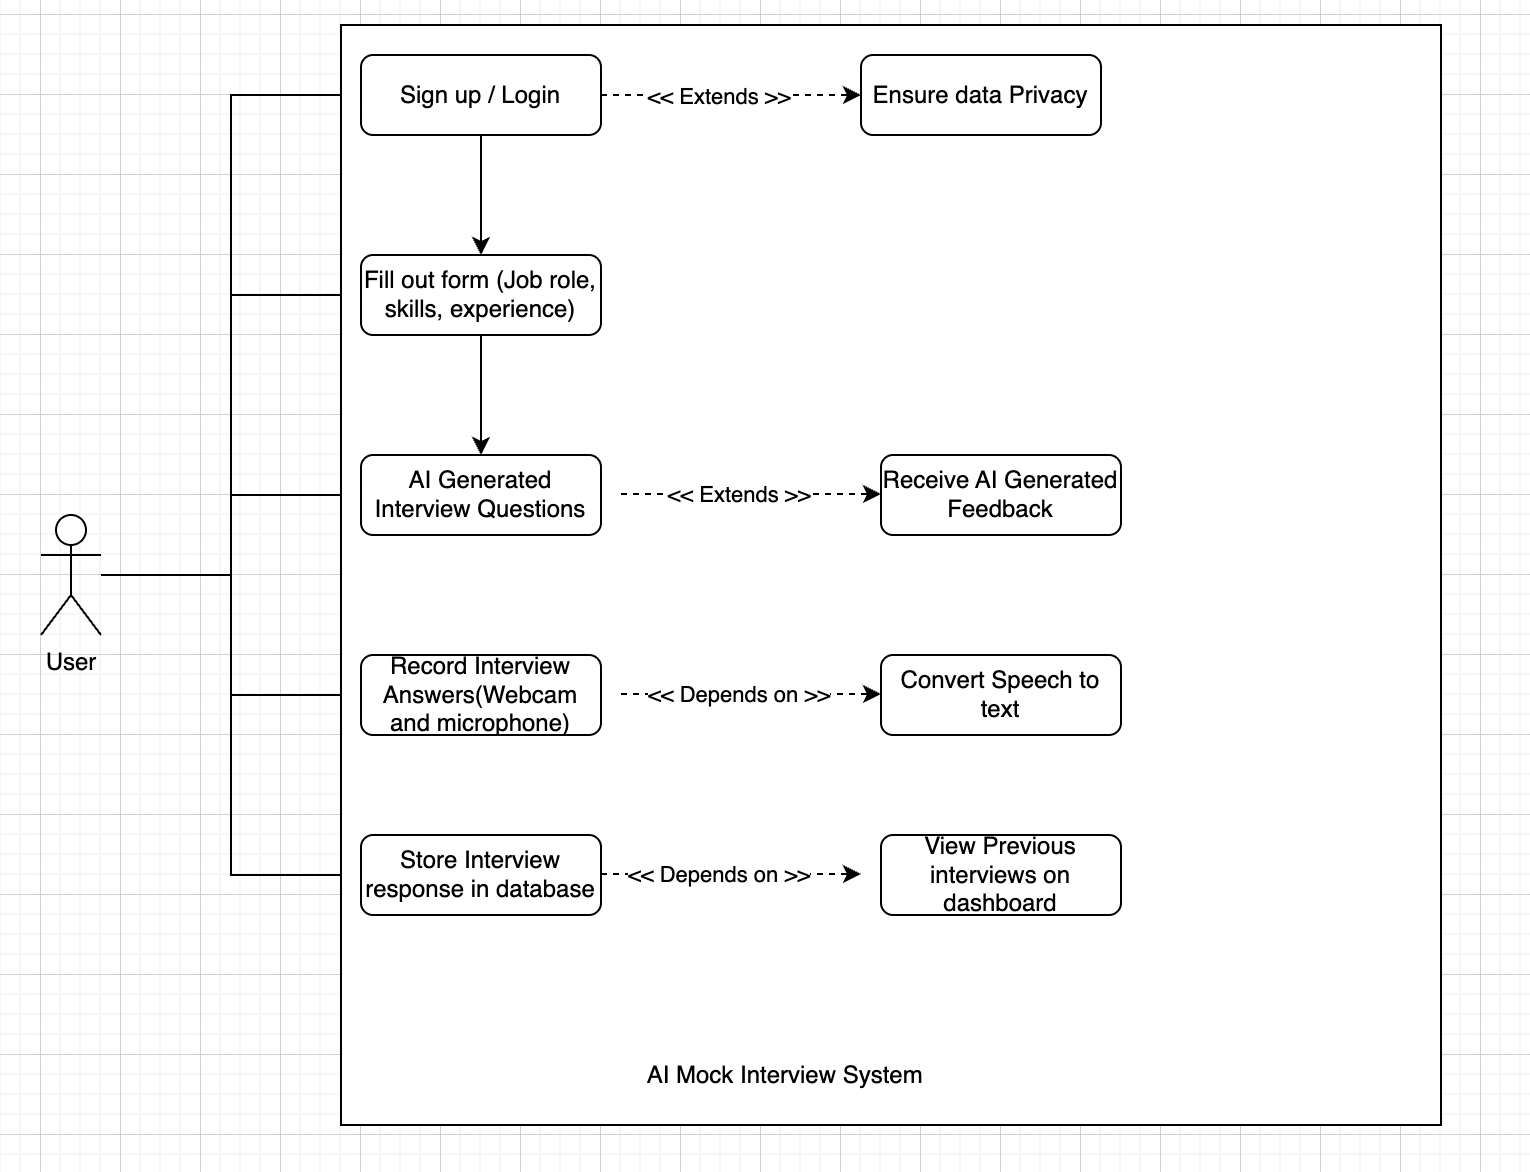
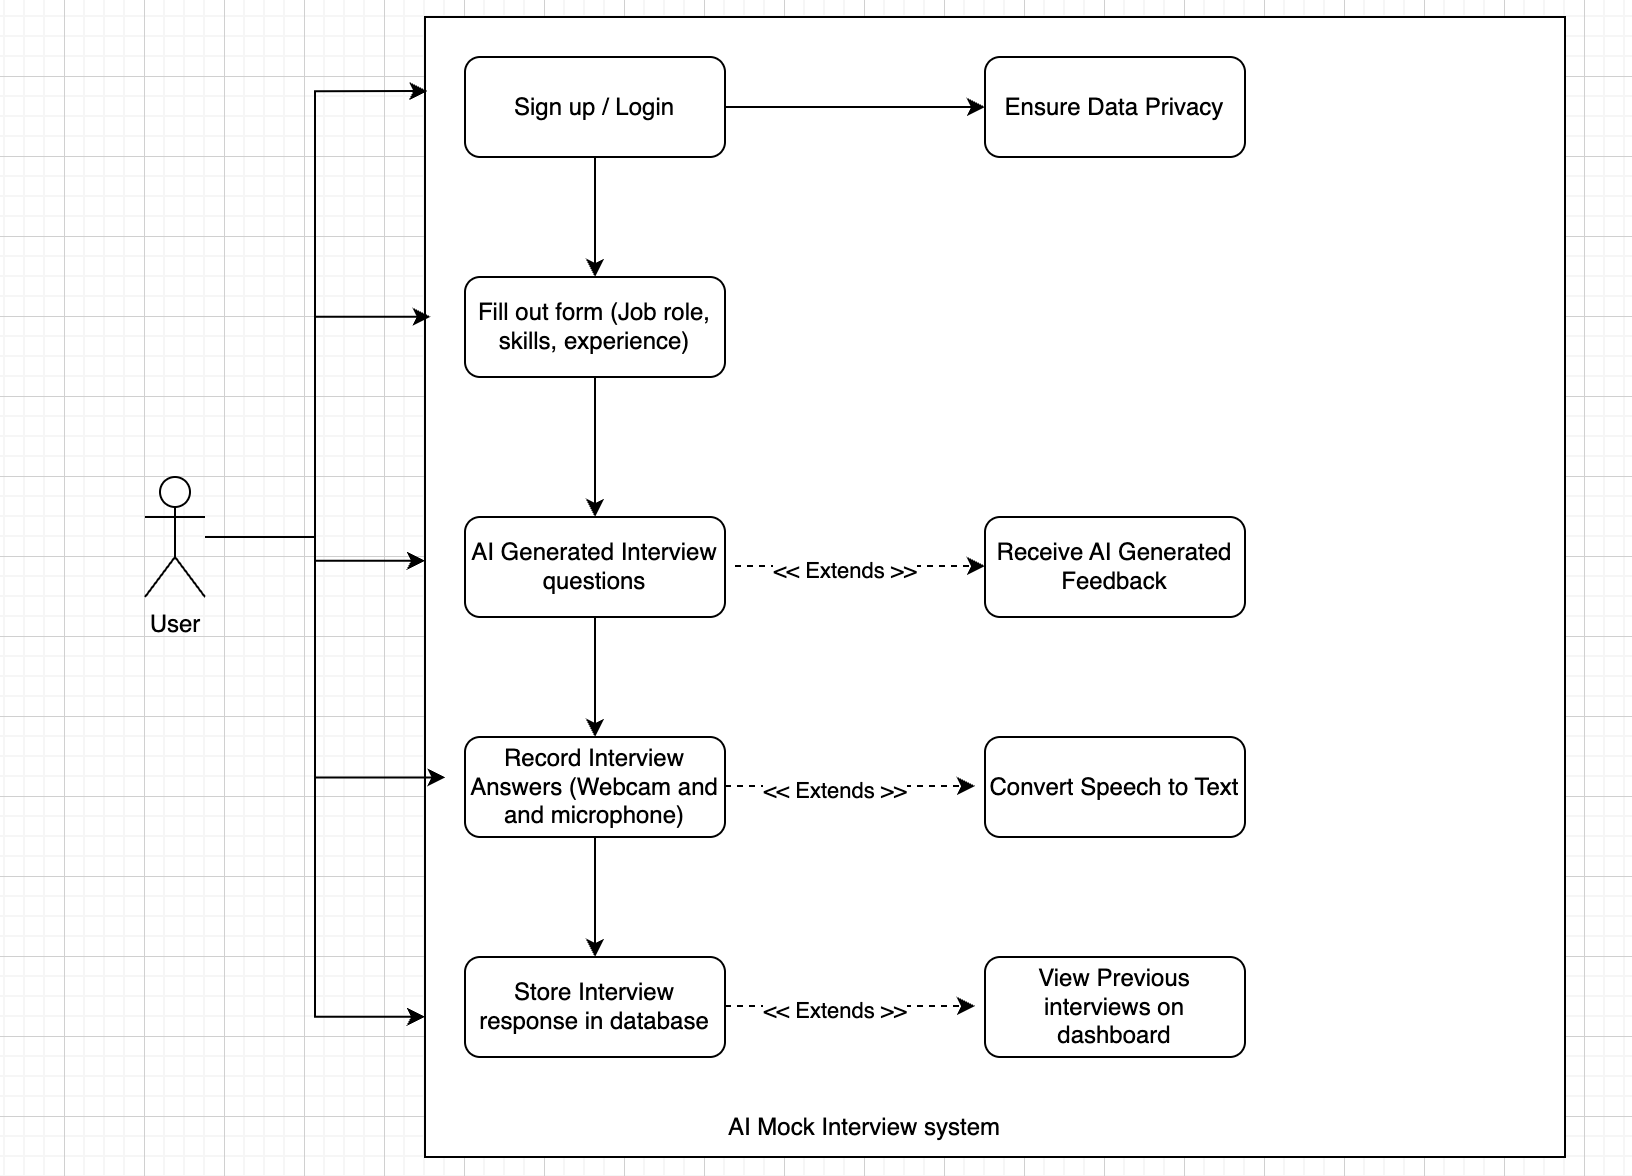
Updated the use case diagram

diff --git a/Docs/DesignDoc.md b/Docs/DesignDoc.md
@@ -137,6 +137,6 @@ The Use Case Diagram illustrates how users interact with the AI-Powered Mock Int
 * Recording & Speech Processing → Users can record their answers via webcam/microphone, and the Speech-to-Text API converts spoken responses into text.
 * Interview Storage & Review → Responses are stored in PostgreSQL and can be viewed later on the dashboard.
 
-The diagram also shows dependencies (depends on) where functionalities rely on each other (e.g., recording depends on speech-to-text conversion) and extensions (extends) where features enhance existing use cases (e.g., AI-generated questions extend AI feedback).
+
 
 
